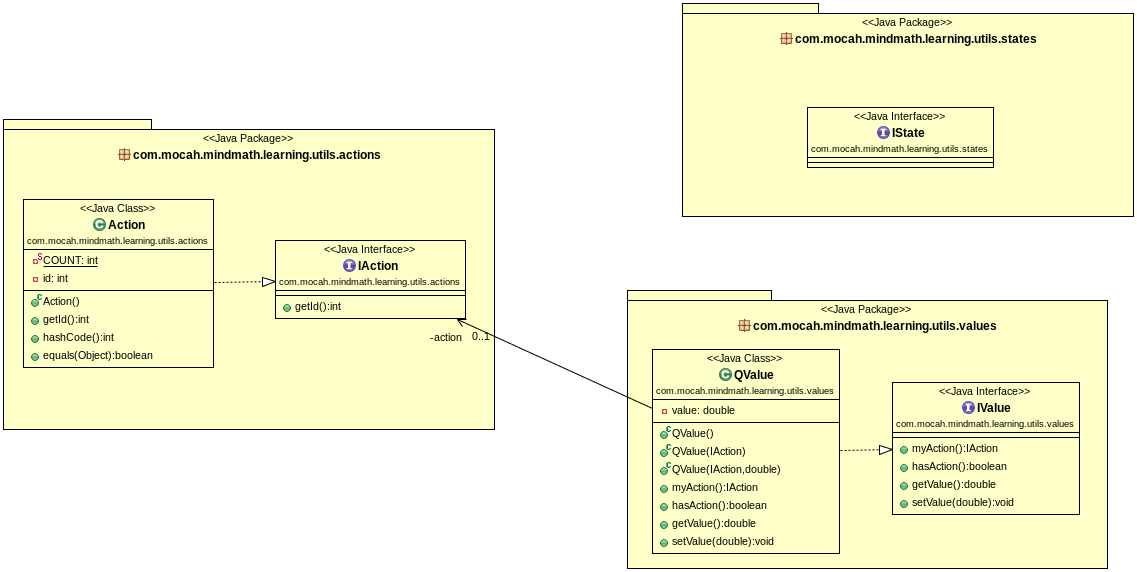
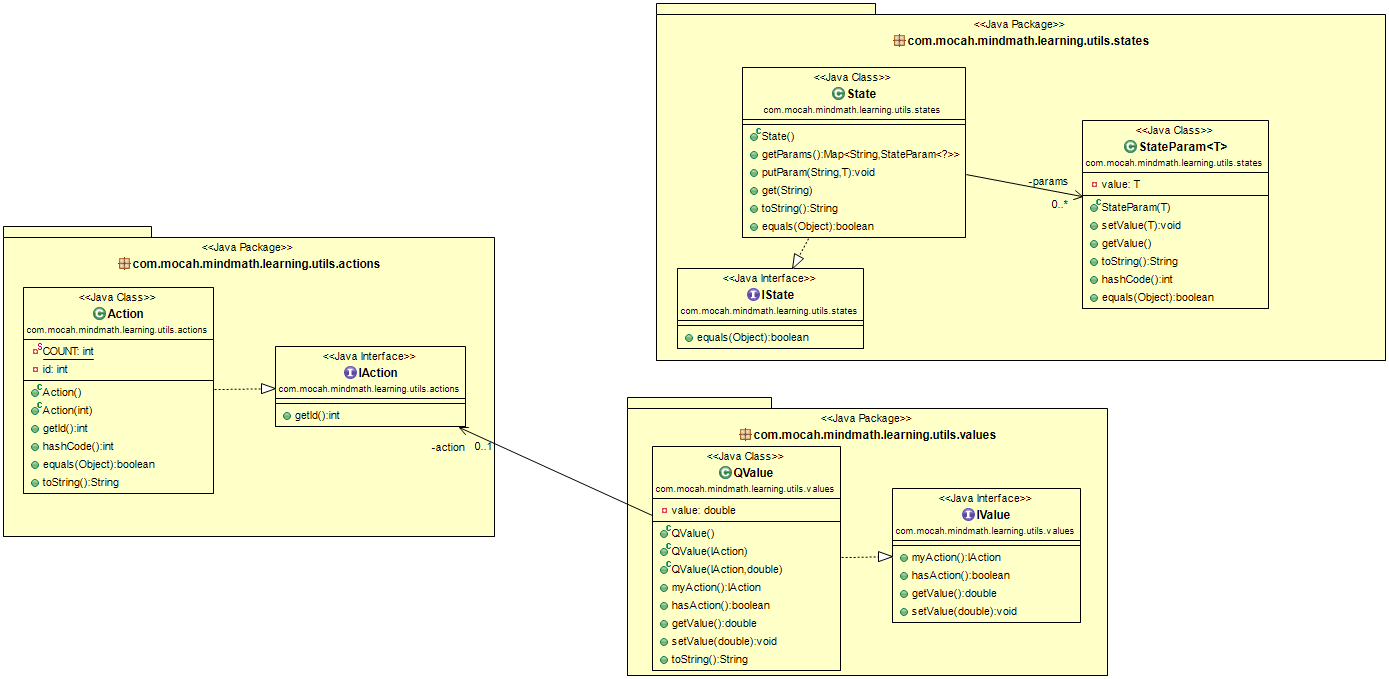
Implement state definition and equality

diff --git a/src/main/java/com/mocah/mindmath/learning/utils/states/State.java b/src/main/java/com/mocah/mindmath/learning/utils/states/State.java
@@ -4,22 +4,43 @@
 package com.mocah.mindmath.learning.utils.states;
 
 import java.util.HashMap;
+import java.util.HashSet;
 import java.util.Map;
+import java.util.Set;
 
 /**
- * @author tsimo
+ * The state implementation for mindmath learning system Contains a Map of
+ * key->values
+ *
+ * @author Thibaut SIMON-FINE
  *
  */
 public class State implements IState {
-	Map<String, StateParam<?>> params;
+	private Map<String, StateParam<?>> params;
 
 	/**
-	 *
+	 * Instantiate a State which should be filled with <code>putParam</code> method
 	 */
 	public State() {
 		this.params = new HashMap<>();
 	}
 
+	/**
+	 * Get all the parameters
+	 *
+	 * @return
+	 */
+	public Map<String, StateParam<?>> getParams() {
+		return params;
+	}
+
+	/**
+	 * Add/replace a parameter with a key and it's value
+	 *
+	 * @param <T>
+	 * @param key a string key
+	 * @param val the value of custom type
+	 */
 	public <T> void putParam(String key, T val) {
 		params.put(key, new StateParam<>(val));
 	}
@@ -34,4 +55,41 @@ public class State implements IState {
 		return params.toString();
 	}
 
+	@Override
+	public boolean equals(Object obj) {
+		if (this == obj)
+			return true;
+		if (obj == null)
+			return false;
+		if (getClass() != obj.getClass())
+			return false;
+		State other = (State) obj;
+
+		if (this.params == null) {
+			if (other.getParams() != null)
+				return false;
+		} else {
+			if (other.getParams() == null)
+				return false;
+
+			// Check if all common keys are equals
+			Set<String> common = new HashSet<>(this.params.keySet());
+			common.retainAll(other.getParams().keySet());
+
+			for (String key : common) {
+				StateParam<?> param = this.params.get(key);
+				StateParam<?> paramOther = other.getParams().get(key);
+
+				if (param == null) {
+					if (paramOther != null)
+						return false;
+				} else {
+					if (!param.equals(paramOther))
+						return false;
+				}
+			}
+		}
+
+		return true;
+	}
 }

diff --git a/src/main/java/com/mocah/mindmath/learning/MainLearningProcess.java b/src/main/java/com/mocah/mindmath/learning/MainLearningProcess.java
@@ -214,6 +214,66 @@ public class MainLearningProcess {
 			e.printStackTrace();
 		}
 
+		// Comment to test state equals
+		if (true)
+			return;
+
+		State s1 = new State();
+		s1.putParam("A", "a0");
+		s1.putParam("B", "b0");
+
+		State s2 = new State();
+		s2.putParam("A", "a0");
+		s2.putParam("B", "b1");
+
+		State s3 = new State();
+		s3.putParam("A", "a1");
+		s3.putParam("C", "c0");
+
+		State s4 = new State();
+		s4.putParam("A", "a1");
+		s4.putParam("C", "c1");
+
+		State stest1 = new State();
+		stest1.putParam("A", "a0");
+		stest1.putParam("B", "b0");
+		stest1.putParam("C", "c0");
+
+		State stest2 = new State();
+		stest2.putParam("A", "a0");
+		stest2.putParam("B", "b0");
+		stest2.putParam("C", "c1");
+
+		State stest3 = new State();
+		stest3.putParam("A", "a1");
+		stest3.putParam("B", "b0");
+		stest3.putParam("C", "c0");
+
+		State stest4 = new State();
+		stest4.putParam("A", "a1");
+		stest4.putParam("B", "b1");
+		stest4.putParam("C", "c0");
+
+		System.out.println(stest1.equals(s1));
+		System.out.println(stest1.equals(s2));
+		System.out.println(stest1.equals(s3));
+		System.out.println(stest1.equals(s4));
+		System.out.println("");
+		System.out.println(stest2.equals(s1));
+		System.out.println(stest2.equals(s2));
+		System.out.println(stest2.equals(s3));
+		System.out.println(stest2.equals(s4));
+		System.out.println("");
+		System.out.println(stest3.equals(s1));
+		System.out.println(stest3.equals(s2));
+		System.out.println(stest3.equals(s3));
+		System.out.println(stest3.equals(s4));
+		System.out.println("");
+		System.out.println(stest4.equals(s1));
+		System.out.println(stest4.equals(s2));
+		System.out.println(stest4.equals(s3));
+		System.out.println(stest4.equals(s4));
+
 		// Comment to test qlearning on simple env
 		if (true)
 			return;

diff --git a/src/main/java/com/mocah/mindmath/learning/utils/states/StateParam.java b/src/main/java/com/mocah/mindmath/learning/utils/states/StateParam.java
@@ -1,16 +1,38 @@
 package com.mocah.mindmath.learning.utils.states;
 
+/**
+ * Implement parameters
+ *
+ * @author Thibaut SIMON-FINE
+ *
+ * @param <T> the type of the parameter
+ */
 public class StateParam<T> {
 	private T value;
 
+	/**
+	 * Instantiate with a value for the parameter
+	 *
+	 * @param val
+	 */
 	public StateParam(T val) {
 		this.value = val;
 	}
 
-	public void setValue(T value) {
-		this.value = value;
+	/**
+	 * Set a new value
+	 *
+	 * @param val
+	 */
+	public void setValue(T val) {
+		this.value = val;
 	}
 
+	/**
+	 * Get the value of the parameter
+	 *
+	 * @return
+	 */
 	public T getValue() {
 		return value;
 	}
@@ -18,5 +40,35 @@ public class StateParam<T> {
 	@Override
 	public String toString() {
 		return value.toString();
+	}
+
+	@Override
+	public int hashCode() {
+		final int prime = 31;
+		int result = 1;
+		result = prime * result + ((value == null) ? 0 : value.hashCode());
+		return result;
+	}
+
+	@Override
+	public boolean equals(Object obj) {
+		if (this == obj)
+			return true;
+		if (obj == null)
+			return false;
+		if (getClass() != obj.getClass())
+			return false;
+
+		StateParam<?> other = (StateParam<?>) obj;
+
+		if (this.value == null) {
+			if (other.getValue() != null)
+				return false;
+		} else {
+			if (!value.equals(other.getValue()))
+				return false;
+		}
+
+		return true;
 	}
 }

diff --git a/src/main/java/com/mocah/mindmath/learning/utils/states/IState.java b/src/main/java/com/mocah/mindmath/learning/utils/states/IState.java
@@ -6,4 +6,7 @@ package com.mocah.mindmath.learning.utils.states;
  */
 public interface IState {
 
+	@Override
+	public boolean equals(Object obj);
+
 }
